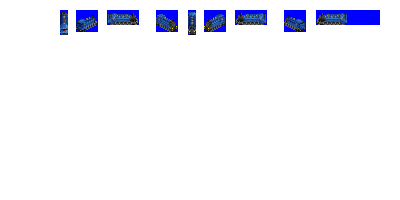
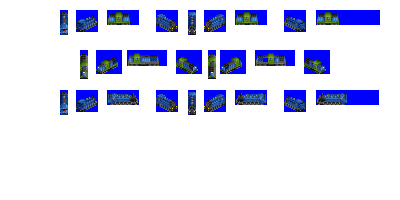
Change: (WIP) diesel version of Springburn

diff --git a/src/vehicles/springburn.py b/src/vehicles/springburn.py
@@ -1,9 +1,9 @@
 import global_constants
-from train import EngineConsist, SteamLoco
+from train import EngineConsist, DieselLoco
 
 consist = EngineConsist(id = 'springburn',
               base_numeric_id = 1790,
-              title = '2-8-2 Springburn [Steam]',
+              title = 'Springburn [Diesel]',
               replacement_id = '-none',
               power = 900,
               speed = 55,
@@ -11,9 +11,9 @@ consist = EngineConsist(id = 'springburn',
               intro_date = 1950,
               use_legacy_spritesheet = True)
 
-consist.add_unit(SteamLoco(consist = consist,
-                        weight = 95,
-                        vehicle_length = 8,
+consist.add_unit(DieselLoco(consist = consist,
+                        weight = 85,
+                        vehicle_length = 6,
                         spriterow_num = 0))
 
 consist.add_model_variant(intro_date=0,
